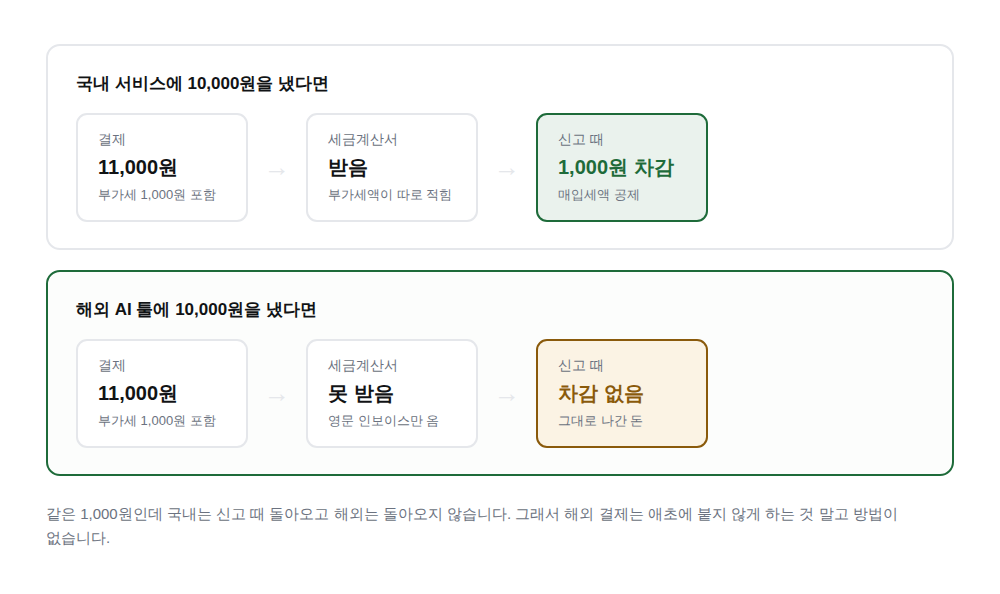
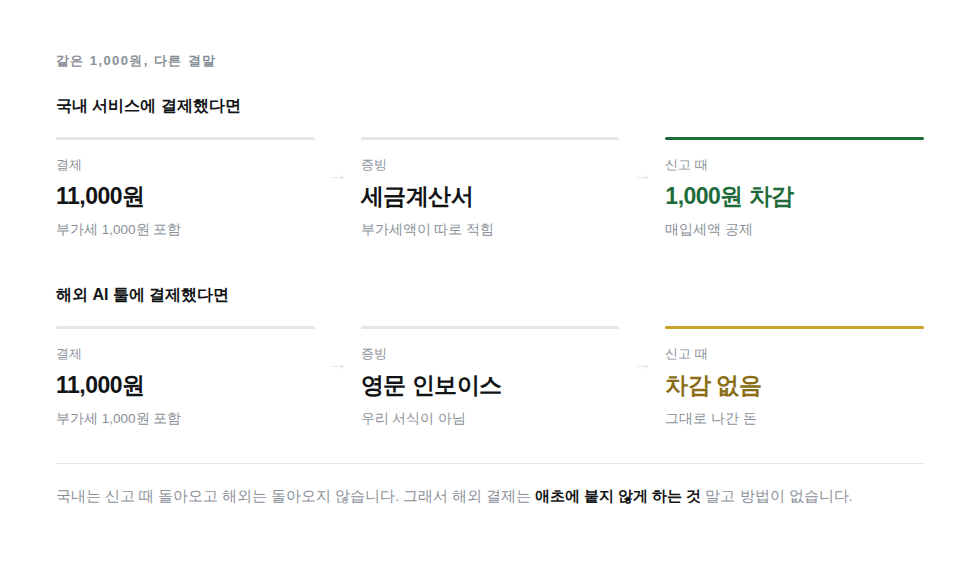
Add files via upload

diff --git a/style.css b/style.css
@@ -80,7 +80,7 @@ section{padding:76px 0;border-top:1px solid var(--line2)}
 .post .warn{background:#FBF7EE;border-left-color:#8A5A0B}
 .post .warn b{color:#8A5A0B}
 .post figure{margin:28px 0}
-.post figure img{width:100%;display:block;border-radius:12px;box-shadow:0 0 0 1px rgba(0,0,0,.07)}
+.post figure img{width:100%;height:auto;display:block;border-radius:12px;box-shadow:0 0 0 1px rgba(0,0,0,.07)}
 .post figcaption{font-size:13.5px;color:var(--gray2);margin-top:10px;line-height:1.6}
 .post .slot{border:1px dashed #D6D8DD;border-radius:12px;padding:34px 24px;text-align:center;
   background:var(--fill);color:var(--gray2);font-size:14px;line-height:1.7}
@@ -247,7 +247,15 @@ td.n,th.n{text-align:right;font-variant-numeric:tabular-nums}
   .split{grid-template-columns:1fr;gap:34px}
   .split.rev .t{order:0}
   .cards{grid-template-columns:1fr}
-  .nav a.m{display:none}
+  .nav .wrap{gap:15px}
+  .nav a.m{font-size:13.5px}
+  .nav .btn{font-size:13px;padding:8px 13px}
   .form{grid-template-columns:repeat(2,1fr)}
   .calc{padding:24px}
+}
+@media (max-width:390px){
+  .nav .wrap{gap:11px}
+  .nav .logo{font-size:15px}
+  .nav a.m{font-size:13px}
+  .nav .btn{font-size:12.5px;padding:8px 11px}
 }

diff --git a/blog-how-to-cancel.html b/blog-how-to-cancel.html
@@ -48,8 +48,7 @@
 <p>해지했다고 믿었는데 다음 달에 또 결제되는 일이 실제로 자주 생깁니다.
 중간 화면에서 나가버렸거나, 확인 버튼을 한 번 덜 눌렀거나, 계정이 두 개인 경우입니다.</p>
 
-<figure><img src="./fig-cancel-check.png" alt="해지 후 확인할 세 가지"
-  width="1000" height="420">
+<figure><img alt="해지 후 확인할 세 가지" src="./fig-cancel-check.png" width="980" height="547">
 <figcaption>셋 중 하나라도 아니면 해지가 안 된 것입니다.</figcaption></figure>
 
 <p>그리고 그 종료일을 어딘가에 적어 두세요. 그날 이후에 결제 화면을 다시 열어 보면 확실합니다.</p>

diff --git a/blog-where-to-put-brn.html b/blog-where-to-put-brn.html
@@ -29,8 +29,7 @@
 그런데 막상 Billing 화면에 들어가면 그런 칸이 안 보입니다.
 내가 못 찾는 건지, 이 서비스는 원래 없는 건지부터 헷갈립니다.</p>
 
-<figure><img src="./fig-brn-where.png" alt="계정 메뉴에서 Tax ID 입력칸까지 가는 다섯 단계"
-  width="1000" height="400">
+<figure><img alt="계정 메뉴에서 Tax ID 입력칸까지 가는 다섯 단계" src="./fig-brn-where.png" width="980" height="320">
 <figcaption>네 번째에서 대부분 포기합니다. 국가를 바꾸기 전에는 칸이 화면에 없습니다.</figcaption></figure>
 
 <h2>열에 일곱은 이 이유입니다</h2>

diff --git a/blog-find-subscriptions.html b/blog-find-subscriptions.html
@@ -30,8 +30,7 @@
 
 <p>세 군데만 보시면 됩니다. 순서대로 하시면 30분 안에 끝납니다.</p>
 
-<figure><img src="./fig-find-three.png" alt="카드 명세서, 메일함, 구글과 애플 계정 세 곳을 비교한 그림"
-  width="1000" height="440">
+<figure><img alt="카드 명세서, 메일함, 구글과 애플 계정 세 곳을 비교한 그림" src="./fig-find-three.png" width="980" height="398">
 <figcaption>셋 중 하나만 보면 반드시 빠집니다. 각각 잡히는 것이 다릅니다.</figcaption></figure>
 
 <h2>1. 카드 명세서에서 해외 결제만 뽑기</h2>

diff --git a/blog-vat-not-refundable.html b/blog-vat-not-refundable.html
@@ -38,8 +38,7 @@
 
 <h2>어디서 갈라지나</h2>
 
-<figure><img src="./fig-vat-path.png" alt="국내 결제와 해외 결제에서 부가세가 어떻게 달라지는지 비교한 그림"
-  width="1000" height="600">
+<figure><img alt="국내 결제와 해외 결제에서 부가세가 어떻게 달라지는지 비교한 그림" src="./fig-vat-path.png" width="980" height="561">
 <figcaption>같은 1,000원인데 국내는 신고 때 돌아오고 해외는 돌아오지 않습니다.</figcaption></figure>
 
 <div class="tw"><table>
